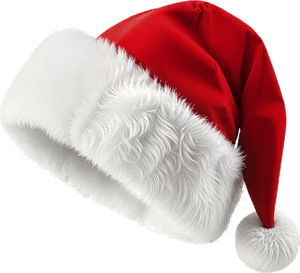
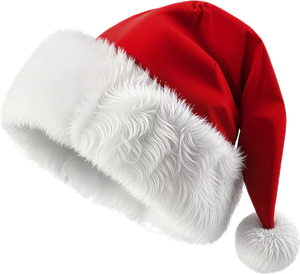
Fix Santa hat fur transparency holes and make the garland dip into the section below
Hat was using a flat white-threshold cutout, which also punched holes
through the hat's own white fur highlights. Switched to a flood-fill
from the image edges so only the background (not enclosed white fur)
becomes transparent.

Garland now overlaps slightly into the section below it instead of
ending in a hard flat line at the header boundary.

diff --git a/css/style.css b/css/style.css
@@ -122,13 +122,13 @@ header.site-header{
 .nav-inner{display:flex;align-items:center;justify-content:space-between;gap:24px;padding:14px 0}
 
 .xmas-garland{
-  width:100%;height:46px;
+  position:relative;z-index:5;width:100%;height:52px;margin-bottom:-18px;
   background-image:url('/assets/xmas-garland.png');
   background-repeat:repeat-x;background-position:center top;background-size:auto 100%;
-  box-shadow:0 2px 6px -2px rgba(0,0,0,.12);
+  pointer-events:none;
 }
 @media (max-width:640px){
-  .xmas-garland{height:30px}
+  .xmas-garland{height:36px;margin-bottom:-12px}
 }
 
 .brand{display:flex;align-items:center;gap:12px}
